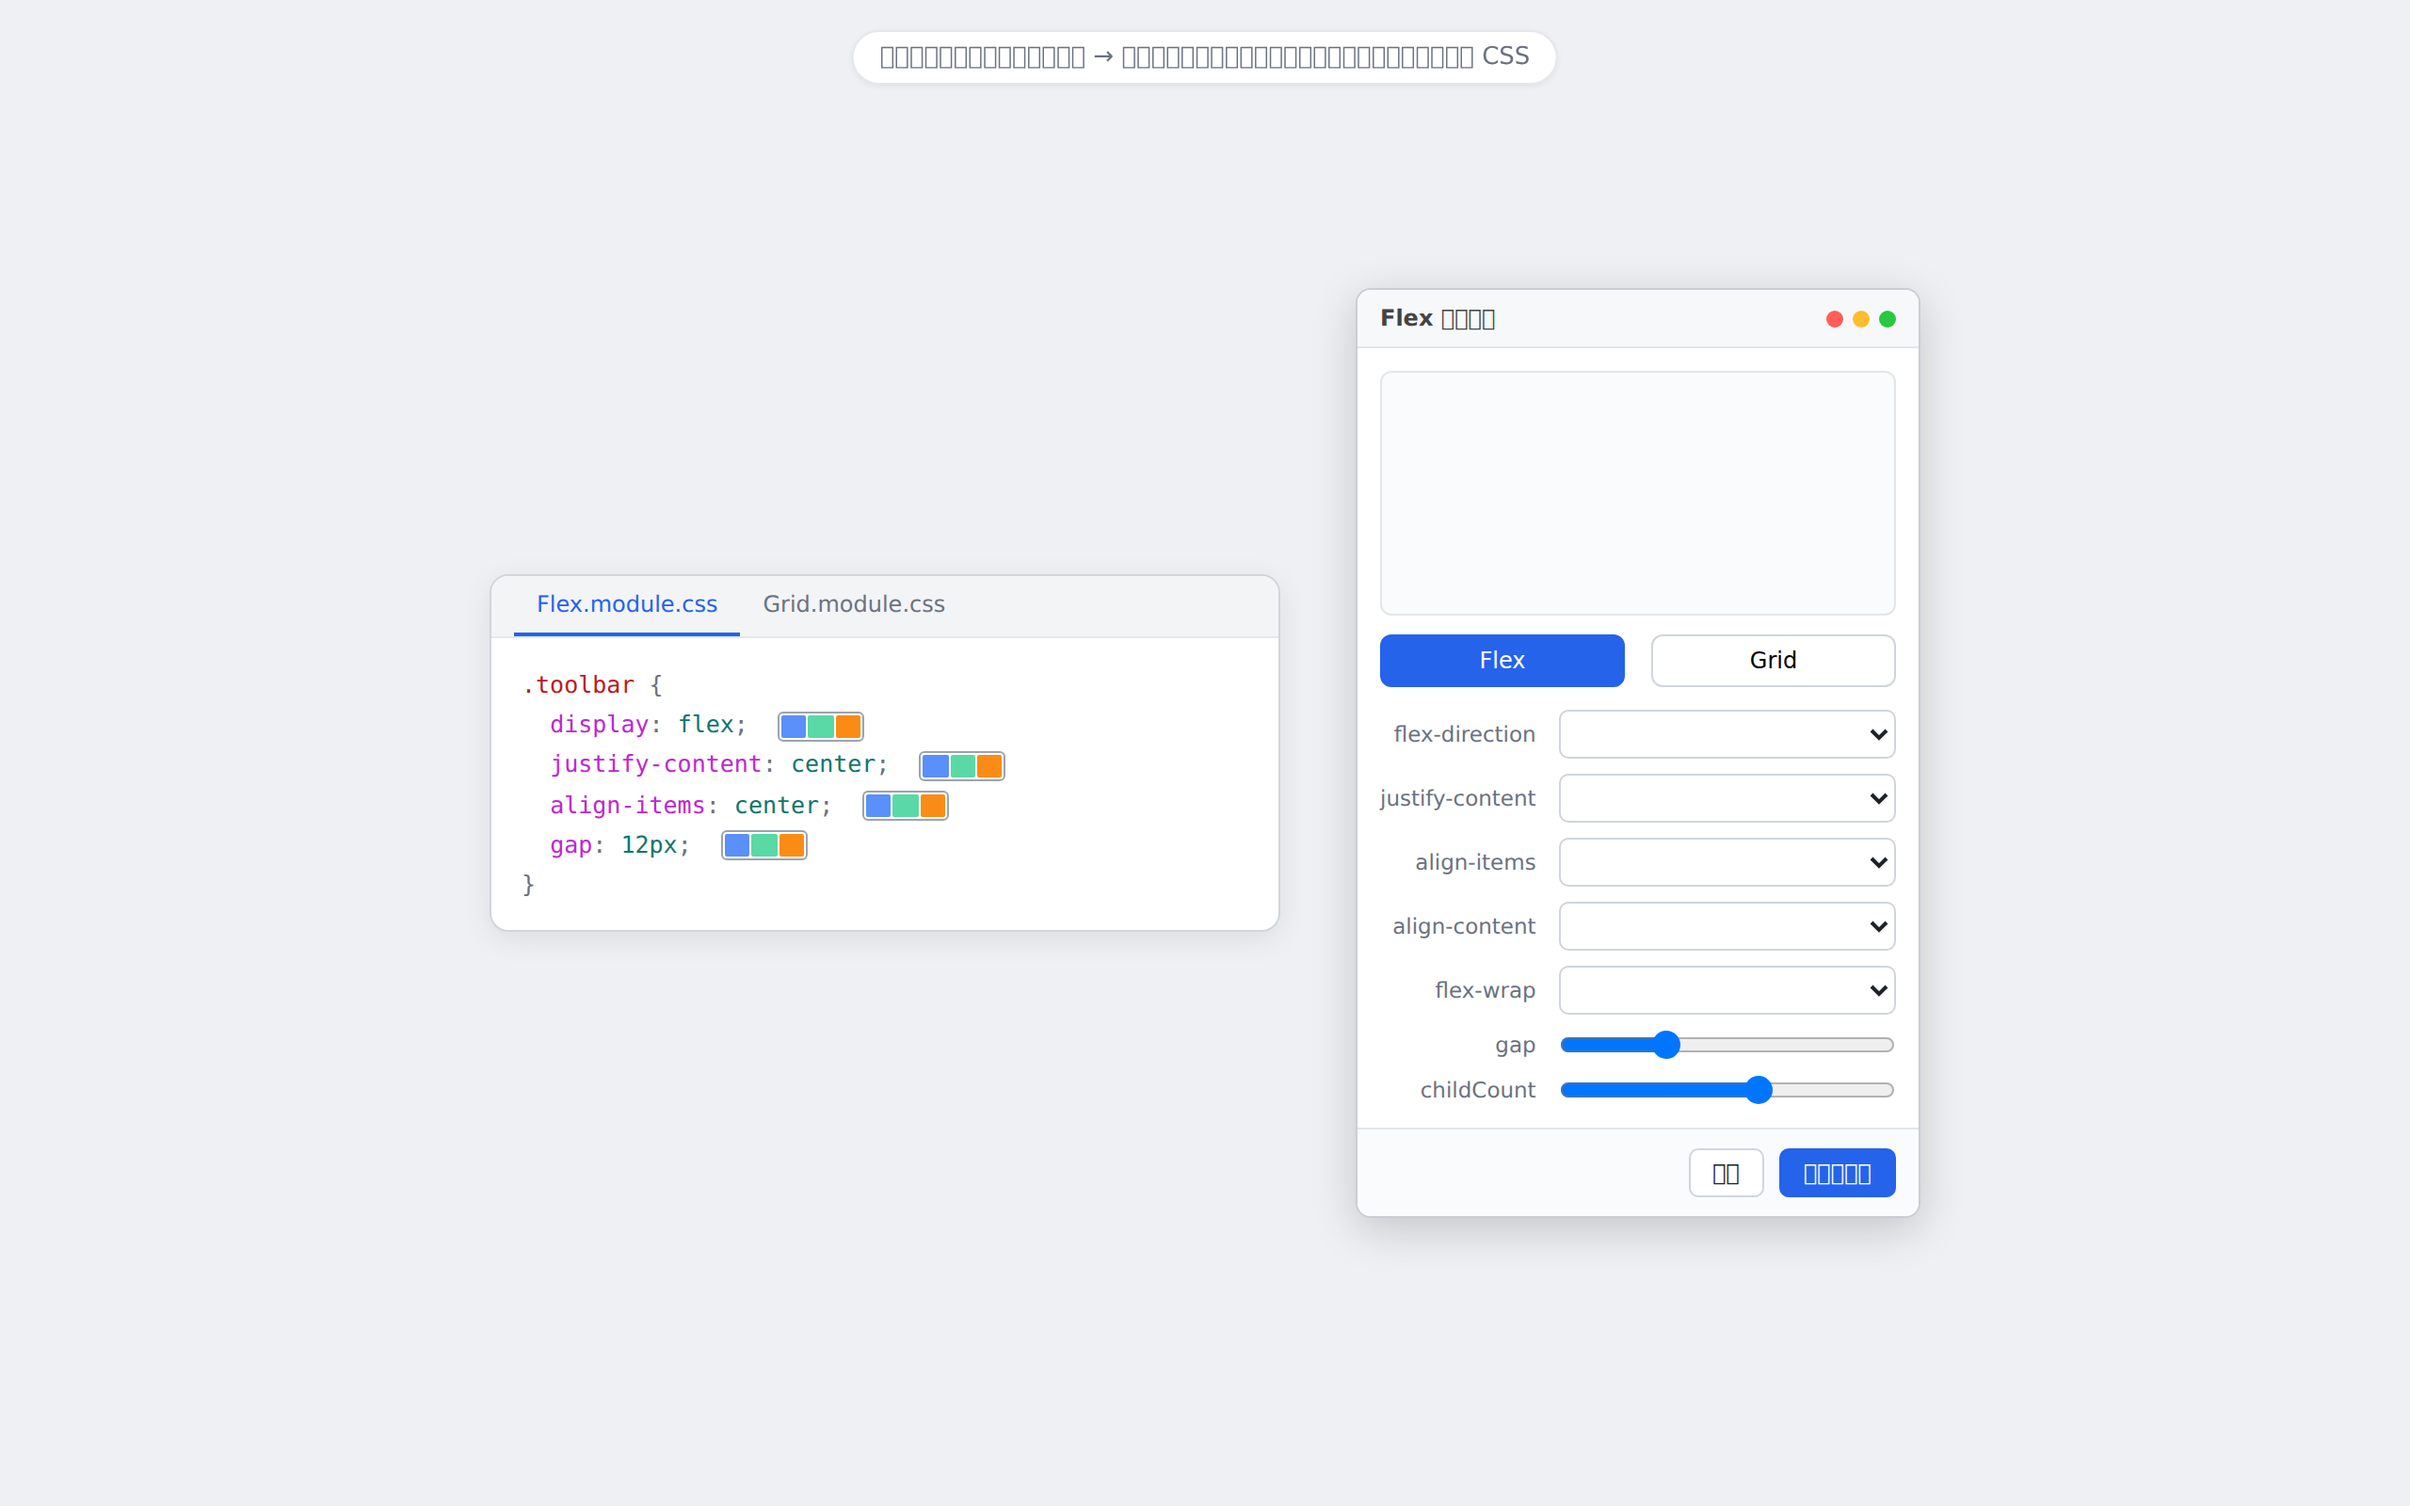
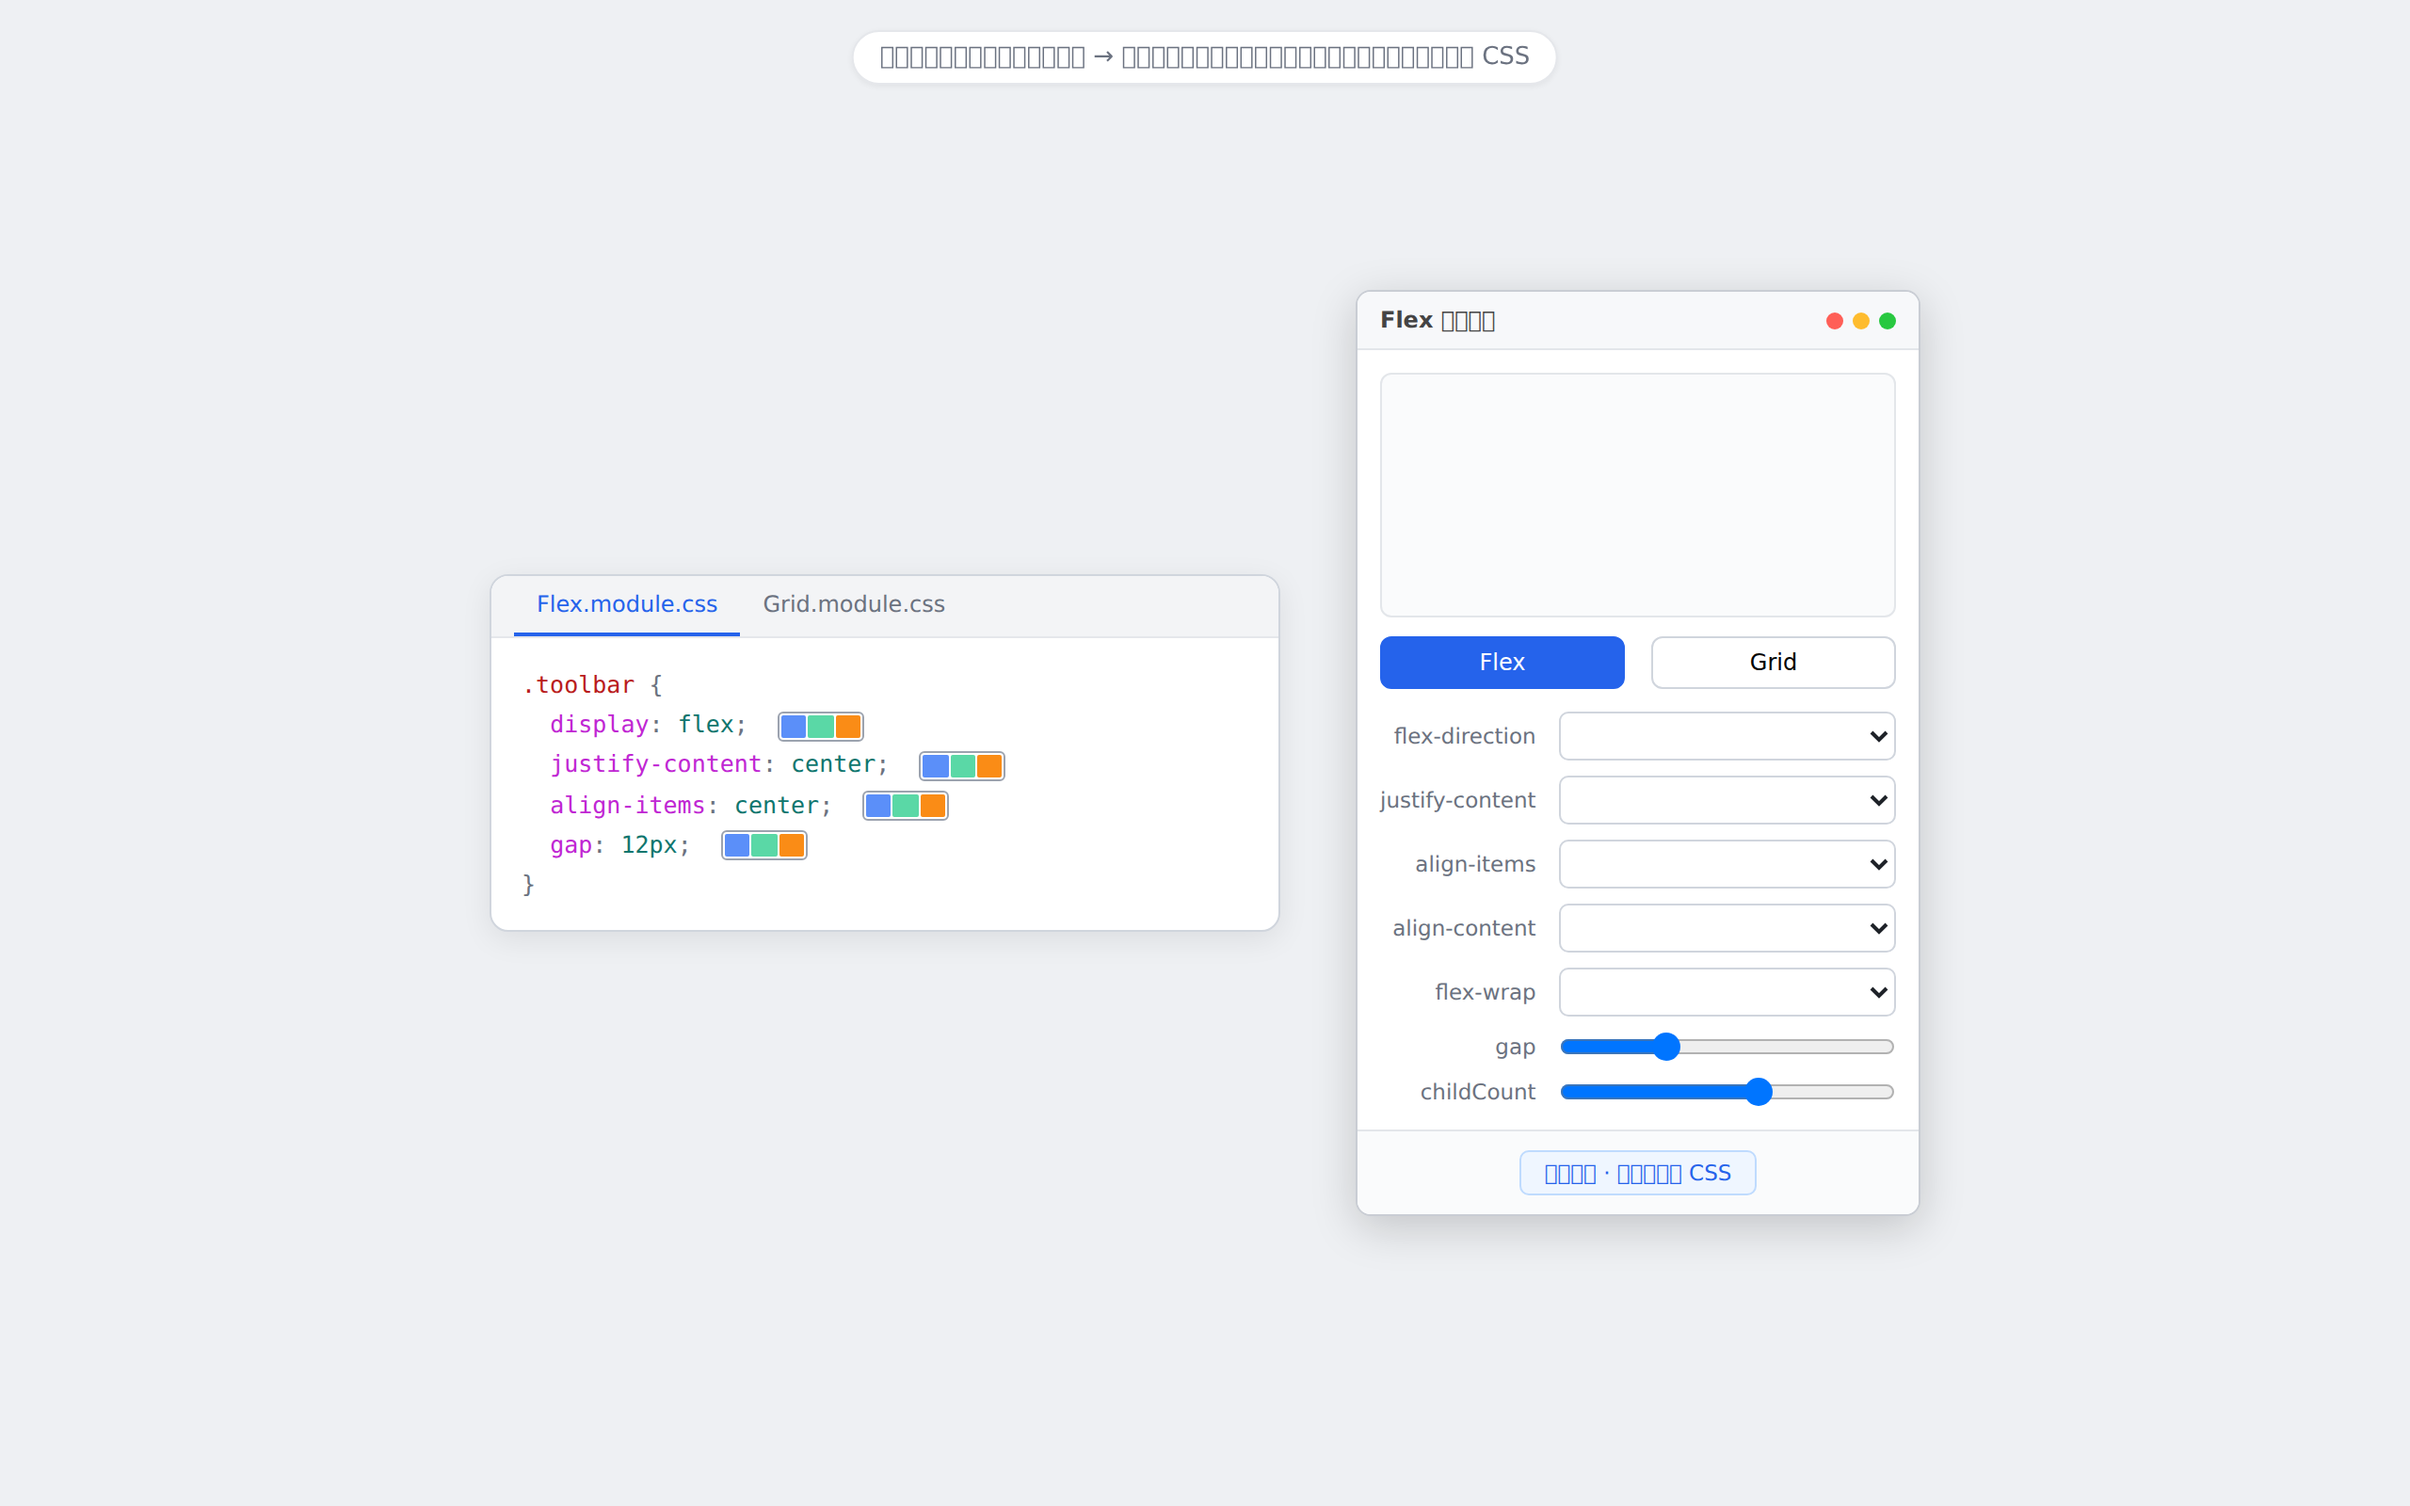
feat: 验证功能实现方案

diff --git a/src/main/kotlin/com/pan/dashstyle/LayoutPreviewPopup.kt b/src/main/kotlin/com/pan/dashstyle/LayoutPreviewPopup.kt
@@ -10,14 +10,12 @@ import com.intellij.ui.JBColor
 import java.awt.BorderLayout
 import java.awt.Color
 import java.awt.Dimension
-import java.awt.FlowLayout
 import java.awt.Graphics
 import java.awt.Graphics2D
 import java.awt.GridBagConstraints
 import java.awt.GridBagLayout
 import java.awt.Insets
 import javax.swing.BorderFactory
-import javax.swing.JButton
 import javax.swing.JComboBox
 import javax.swing.JComponent
 import javax.swing.JLabel
@@ -84,6 +82,7 @@ object LayoutPreviewPopup {
         private val direction = JComboBox(arrayOf("row", "row-reverse", "column", "column-reverse"))
         private val wrap = JComboBox(arrayOf("nowrap", "wrap"))
         private val gap = SliderControl(0, 40, initial.gap)
+        private val preview = previewPanel { current() }
 
         init {
             justify.selectedItem = initial.justify.cssValue()
@@ -110,6 +109,8 @@ object LayoutPreviewPopup {
                 wrap = (wrap.selectedItem as? String) == "wrap",
                 childCount = state[0].childCount
             )
+            preview.repaint()
+            apply()
         }
 
         private fun current(): LayoutModel.Flex = LayoutModel.Flex(state[0])
@@ -123,7 +124,6 @@ object LayoutPreviewPopup {
         }
 
         override fun build(): JBPopup {
-            val preview = previewPanel(current())
             val form = JPanel(GridBagLayout())
             var row = 0
             fun addRow(label: String, comp: JComponent) {
@@ -140,16 +140,10 @@ object LayoutPreviewPopup {
             addRow("flex-wrap", wrap)
             addRow("gap", gap.view)
 
-            val applyBtn = JButton("应用到样式")
-            applyBtn.addActionListener { apply() }
-            val buttons = JPanel(FlowLayout(FlowLayout.RIGHT, 0, 0))
-            buttons.add(applyBtn)
-
             val panel = JPanel(BorderLayout(8, 8))
             panel.border = BorderFactory.createEmptyBorder(10, 10, 10, 10)
             panel.add(preview, BorderLayout.NORTH)
             panel.add(form, BorderLayout.CENTER)
-            panel.add(buttons, BorderLayout.SOUTH)
 
             return JBPopupFactory.getInstance()
                 .createComponentPopupBuilder(panel, justify)
@@ -176,6 +170,7 @@ object LayoutPreviewPopup {
         private val alignItems = JComboBox(arrayOf("stretch", "start", "center", "end"))
         private val justifyContent = JComboBox(arrayOf("stretch", "start", "center", "end"))
         private val alignContent = JComboBox(arrayOf("stretch", "start", "center", "end"))
+        private val preview = previewPanel { current() }
 
         init {
             justifyItems.selectedItem = initial.justifyItems.cssValue()
@@ -205,6 +200,8 @@ object LayoutPreviewPopup {
                 alignContent = GridLayoutResolver.parseAlign(alignContent.selectedItem as? String, state[0].alignContent),
                 childCount = state[0].childCount
             )
+            preview.repaint()
+            apply()
         }
 
         private fun current(): LayoutModel.Grid = LayoutModel.Grid(state[0])
@@ -218,7 +215,6 @@ object LayoutPreviewPopup {
         }
 
         override fun build(): JBPopup {
-            val preview = previewPanel(current())
             val form = JPanel(GridBagLayout())
             var row = 0
             fun addRow(label: String, comp: JComponent) {
@@ -236,16 +232,10 @@ object LayoutPreviewPopup {
             addRow("justify-content", justifyContent)
             addRow("align-content", alignContent)
 
-            val applyBtn = JButton("应用到样式")
-            applyBtn.addActionListener { apply() }
-            val buttons = JPanel(FlowLayout(FlowLayout.RIGHT, 0, 0))
-            buttons.add(applyBtn)
-
             val panel = JPanel(BorderLayout(8, 8))
             panel.border = BorderFactory.createEmptyBorder(10, 10, 10, 10)
             panel.add(preview, BorderLayout.NORTH)
             panel.add(form, BorderLayout.CENTER)
-            panel.add(buttons, BorderLayout.SOUTH)
 
             return JBPopupFactory.getInstance()
                 .createComponentPopupBuilder(panel, columns.view)
@@ -258,9 +248,8 @@ object LayoutPreviewPopup {
     // ====================================================================
     // 公共：实时画布
     // ====================================================================
-    private fun previewPanel(model: LayoutModel): JPanel {
+    private fun previewPanel(modelProvider: () -> LayoutModel): JPanel {
         return object : JPanel() {
-            private var current = model
             init {
                 preferredSize = Dimension(200, 120)
                 background = JBColor(Color(0xf7f7f8), Color(0x2b2d30))
@@ -272,7 +261,7 @@ object LayoutPreviewPopup {
                 val pad = 12
                 val boxW = width - pad * 2
                 val boxH = height - pad * 2
-                val boxes = current.boxes(boxW, boxH)
+                val boxes = modelProvider().boxes(boxW, boxH)
                 g2.color = JBColor(Color(0x9aa0aa), Color(0x62666d))
                 g2.drawRect(pad, pad, boxW - 1, boxH - 1)
                 g2.color = JBColor(Color(0x4f8cff), Color(0x6aa0ff))

diff --git a/popup-demo.html b/popup-demo.html
@@ -41,7 +41,8 @@
   .form label { font-size:11.5px; color:#6b7280; text-align:right; }
   .form select, .form input[type=number] { width:100%; font-size:12px; padding:4px 6px; border:1px solid #d0d5dd; border-radius:5px; background:#fff; color:#1f2329; }
   .form input[type=range] { width:100%; }
-  .footer { display:flex; justify-content:flex-end; gap:8px; padding:10px 12px; border-top:1px solid #e3e6ea; background:#fafbfc; }
+  .footer { display:flex; justify-content:center; align-items:center; padding:10px 12px; border-top:1px solid #e3e6ea; background:#fafbfc; }
+  .hint-text { font-size:11.5px; color:#2563eb; background:#eff6ff; border:1px solid #bfdbfe; border-radius:5px; padding:4px 12px; }
   .btn { font-size:12px; padding:5px 12px; border-radius:5px; border:1px solid #d0d5dd; background:#fff; color:#1f2329; cursor:pointer; }
   .btn.primary { background:#2563eb; border-color:#2563eb; color:#fff; }
   .btn:hover { filter:brightness(.96); }
@@ -77,8 +78,7 @@
     <div class="form" id="form"></div>
   </div>
   <div class="footer">
-    <button class="btn" id="reset">重置</button>
-    <button class="btn primary" id="apply">应用到样式</button>
+    <span class="hint-text" id="liveHint">实时应用 · 调整即写回 CSS</span>
   </div>
 </div>
 
@@ -165,17 +165,25 @@ function renderForm(){
     } else {
       input.type='range'; input.min=opts[0]; input.max=opts[1]; input.value=s[key];
     }
-    input.addEventListener('input', ()=>{ s[key]= type==='select'? input.value : +input.value; renderCanvas(); });
+    input.addEventListener('input', ()=>{ s[key]= type==='select'? input.value : +input.value; renderCanvas(); updateBadge(); });
     form.appendChild(label); form.appendChild(input);
   }
 }
 
 function render(){ document.getElementById('popup').firstElementChild.firstElementChild.textContent = (mode==='flex'?'Flex':'Grid')+' 布局预览'; renderCanvas(); renderForm(); }
 
+// 实时更新编辑器徽标颜色块（模拟布局值写回 CSS）
+function updateBadge(){
+  const s = state[mode];
+  const row = document.querySelector('.editor pre');
+  row.style.opacity = 1;
+  // 简单动画提示：高亮闪烁
+  row.style.transition='background .3s'; row.style.background='#fffbe6';
+  setTimeout(()=>{ row.style.background=''; }, 300);
+}
+
 document.getElementById('swFlex').onclick=()=>{ mode='flex'; document.getElementById('swFlex').classList.add('active'); document.getElementById('swGrid').classList.remove('active'); render(); };
 document.getElementById('swGrid').onclick=()=>{ mode='grid'; document.getElementById('swGrid').classList.add('active'); document.getElementById('swFlex').classList.remove('active'); render(); };
-document.getElementById('reset').onclick=()=>{ render(); };
-document.getElementById('apply').onclick=()=>{ alert('已把当前值写回 CSS ruleset'); };
 
 // 点击编辑器徽标可开/关弹窗（演示）
 document.getElementById('badgeFlex').onclick=()=>{ document.getElementById('popup').style.display = document.getElementById('popup').style.display==='none'?'':'none'; };
